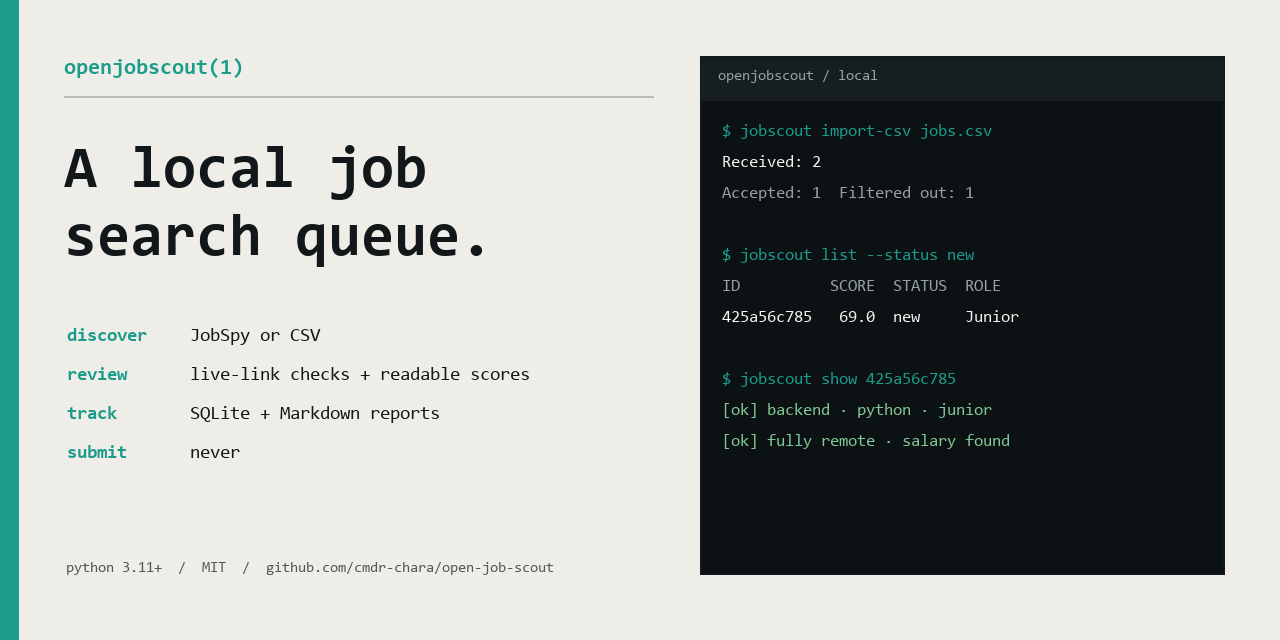
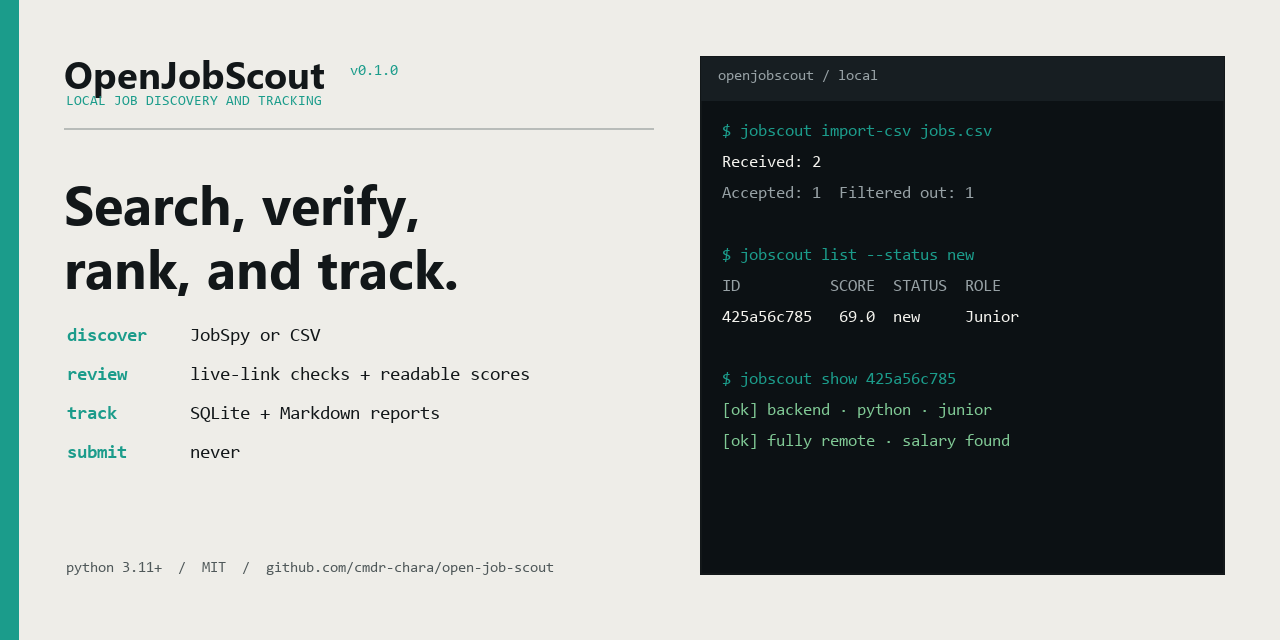
Refine OpenJobScout launch artwork

Changed region(s): [[0.0312, 0.2188, 0.375, 0.4688], [0.0312, 0.0938, 0.2812, 0.1875], [0.2812, 0.0938, 0.3125, 0.125]]

diff --git a/scripts/render_launch_assets.py b/scripts/render_launch_assets.py
@@ -76,11 +76,13 @@ def render_social_preview() -> Path:
     draw = ImageDraw.Draw(image)
 
     draw.rectangle((0, 0, 18, 640), fill=TEAL)
-    draw.text((64, 57), "openjobscout(1)", font=font(22, bold=True, mono=True), fill=TEAL)
-    draw.line((64, 96, 653, 96), fill="#B8BCB9", width=2)
+    draw.text((64, 48), "OpenJobScout", font=font(38, bold=True), fill=INK)
+    draw.text((350, 63), "v0.1.0", font=font(15, mono=True), fill=TEAL)
+    draw.text((66, 94), "LOCAL JOB DISCOVERY AND TRACKING", font=font(14, mono=True), fill=TEAL)
+    draw.line((64, 128, 653, 128), fill="#B8BCB9", width=2)
 
-    draw.text((64, 142), "A local job", font=font(60, bold=True, mono=True), fill=INK)
-    draw.text((64, 210), "search queue.", font=font(60, bold=True, mono=True), fill=INK)
+    draw.text((64, 166), "Search, verify,", font=font(54, bold=True), fill=INK)
+    draw.text((64, 230), "rank, and track.", font=font(54, bold=True), fill=INK)
 
     labels = [
         ("discover", "JobSpy or CSV"),
@@ -172,7 +174,7 @@ def render_demo() -> Path:
         image = Image.new("RGB", (1000, 563), PAPER)
         draw = ImageDraw.Draw(image)
         draw.rectangle((0, 0, 12, 563), fill=TEAL)
-        draw.text((42, 30), "openjobscout(1)", font=font(24, bold=True, mono=True), fill=INK)
+        draw.text((42, 26), "OpenJobScout", font=font(27, bold=True), fill=INK)
         draw.text((765, 37), "bundled sample data", font=font(13, mono=True), fill=TEAL)
         draw_terminal(image, (42, 86, 958, 525), demo_lines(stage), line_height=25, font_size=16)
         frames.append(image)
